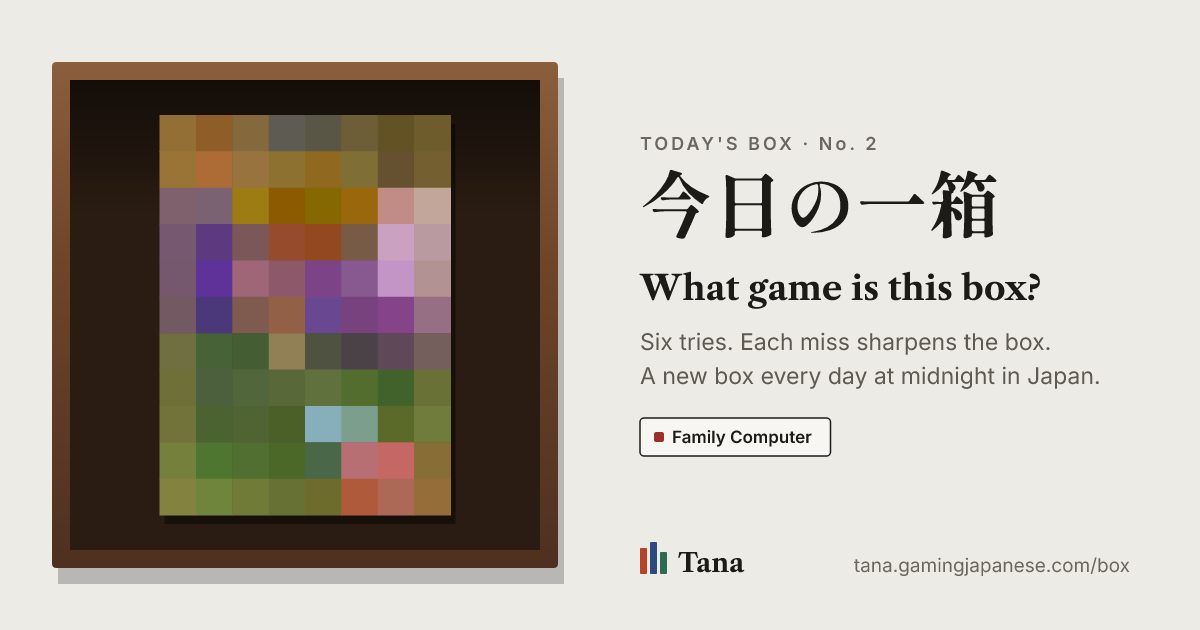
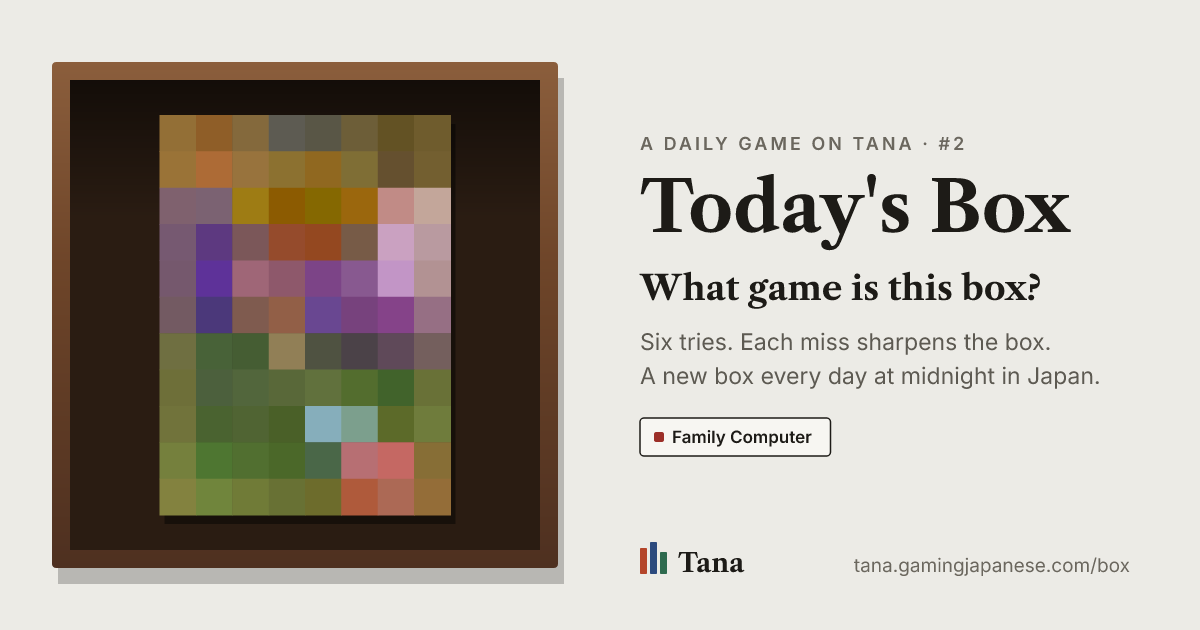
Rebuild game pages (2026-10-14)

Changed region(s): [[0.5242, 0.2714, 0.8942, 0.3921], [0.5242, 0.2111, 0.8017, 0.2413]]

diff --git a/help/index.html b/help/index.html
@@ -39,11 +39,11 @@
 <h3>3. Your collection</h3>
 <ul><li><a href="https://tana.gamingjapanese.com/help/adding-games/">3.1 Adding a game to your collection</a></li><li><a href="https://tana.gamingjapanese.com/help/shelf-and-list/">3.2 Shelf view and list view</a></li><li><a href="https://tana.gamingjapanese.com/help/editing-copies/">3.3 Editing and removing copies</a></li><li><a href="https://tana.gamingjapanese.com/help/importing/">3.4 Importing a collection</a></li><li><a href="https://tana.gamingjapanese.com/help/exporting/">3.5 Exporting your collection</a></li><li><a href="https://tana.gamingjapanese.com/help/insights/">3.6 Insights</a></li><li><a href="https://tana.gamingjapanese.com/help/value/">3.7 Value</a></li><li><a href="https://tana.gamingjapanese.com/help/smaller-shelves/">3.8 Smaller shelves</a></li></ul>
 <h3>4. Wants and lists</h3>
-<ul><li><a href="https://tana.gamingjapanese.com/help/wantlist/">4.1 Your wantlist</a></li><li><a href="https://tana.gamingjapanese.com/help/wants-matches/">4.2 Wants matches</a></li><li><a href="https://tana.gamingjapanese.com/help/boxes/">4.3 Boxes</a></li><li><a href="https://tana.gamingjapanese.com/help/my9/">4.4 My 9 · 私を構成する9本</a></li></ul>
+<ul><li><a href="https://tana.gamingjapanese.com/help/wantlist/">4.1 Your wantlist</a></li><li><a href="https://tana.gamingjapanese.com/help/wants-matches/">4.2 Wants matches</a></li><li><a href="https://tana.gamingjapanese.com/help/boxes/">4.3 Boxes</a></li><li><a href="https://tana.gamingjapanese.com/help/my9/">4.4 My 9</a></li></ul>
 <h3>5. Photos</h3>
 <ul><li><a href="https://tana.gamingjapanese.com/help/adding-photos/">5.1 Adding photos of your copies</a></li><li><a href="https://tana.gamingjapanese.com/help/photo-review/">5.2 How photos are reviewed</a></li><li><a href="https://tana.gamingjapanese.com/help/hide-photos/">5.3 Hiding photos on your public shelf</a></li></ul>
 <h3>6. Sharing and community</h3>
-<ul><li><a href="https://tana.gamingjapanese.com/help/public-shelf/">6.1 Your public shelf and privacy</a></li><li><a href="https://tana.gamingjapanese.com/help/sharing/">6.2 Sharing your shelf</a></li><li><a href="https://tana.gamingjapanese.com/help/following/">6.3 Following collectors</a></li><li><a href="https://tana.gamingjapanese.com/help/owners-and-wanters/">6.4 Who owns and wants each edition</a></li><li><a href="https://tana.gamingjapanese.com/help/leaderboard/">6.5 The leaderboard and verified games</a></li><li><a href="https://tana.gamingjapanese.com/help/contribution-orb/">6.6 The contribution orb</a></li><li><a href="https://tana.gamingjapanese.com/help/comments/">6.7 Comments and discussion</a></li><li><a href="https://tana.gamingjapanese.com/help/todays-box/">6.8 Today&#39;s Box · 今日の一箱</a></li></ul>
+<ul><li><a href="https://tana.gamingjapanese.com/help/public-shelf/">6.1 Your public shelf and privacy</a></li><li><a href="https://tana.gamingjapanese.com/help/sharing/">6.2 Sharing your shelf</a></li><li><a href="https://tana.gamingjapanese.com/help/following/">6.3 Following collectors</a></li><li><a href="https://tana.gamingjapanese.com/help/owners-and-wanters/">6.4 Who owns and wants each edition</a></li><li><a href="https://tana.gamingjapanese.com/help/leaderboard/">6.5 The leaderboard and verified games</a></li><li><a href="https://tana.gamingjapanese.com/help/contribution-orb/">6.6 The contribution orb</a></li><li><a href="https://tana.gamingjapanese.com/help/comments/">6.7 Comments and discussion</a></li><li><a href="https://tana.gamingjapanese.com/help/todays-box/">6.8 Today&#39;s Box</a></li></ul>
 <h3>7. Improving the catalogue</h3>
 <ul><li><a href="https://tana.gamingjapanese.com/help/corrections/">7.1 Suggesting a correction</a></li><li><a href="https://tana.gamingjapanese.com/help/adding-releases-editions/">7.2 Adding a release or an edition</a></li><li><a href="https://tana.gamingjapanese.com/help/regional-differences/">7.3 Documenting regional differences</a></li><li><a href="https://tana.gamingjapanese.com/help/review-process/">7.4 How contributions are reviewed</a></li></ul>
 <h3>8. About the data</h3>

diff --git a/help/whats-new/index.html b/help/whats-new/index.html
@@ -4,12 +4,12 @@
 <meta charset="utf-8">
 <meta name="viewport" content="width=device-width, initial-scale=1">
 <title>What&#39;s new · Tana help</title>
-<meta name="description" content="2026 10 13: Today&#39;s Box · 今日の一箱 A new daily game. Every day at midnight Japan time, one box opens for everyone as an 8 bit mosaic. Guess the game in six tr">
+<meta name="description" content="2026 10 14: Menus and headings in English Every menu, heading and label in Tana is now in English first. Today&#39;s Box, My 9, the stamp cards, platform names">
 <link rel="canonical" href="https://tana.gamingjapanese.com/help/whats-new/">
 <meta property="og:type" content="website">
 <meta property="og:site_name" content="Tana 棚">
 <meta property="og:title" content="What&#39;s new · Tana help">
-<meta property="og:description" content="2026 10 13: Today&#39;s Box · 今日の一箱 A new daily game. Every day at midnight Japan time, one box opens for everyone as an 8 bit mosaic. Guess the game in six tr">
+<meta property="og:description" content="2026 10 14: Menus and headings in English Every menu, heading and label in Tana is now in English first. Today&#39;s Box, My 9, the stamp cards, platform names">
 <meta property="og:url" content="https://tana.gamingjapanese.com/help/whats-new/">
 <meta property="og:image" content="https://tana.gamingjapanese.com/static/og.png">
 <meta property="og:image:width" content="1200">
@@ -31,7 +31,9 @@
 <article class="help">
 <p class="crumb"><a href="https://tana.gamingjapanese.com/help/">Help</a>, Appendices</p>
 <h1>What&#39;s new</h1>
-<h3>2026-10-13: Today&#39;s Box · 今日の一箱</h3>
+<h3>2026-10-14: Menus and headings in English</h3>
+<p>Every menu, heading and label in Tana is now in English first. Today&#39;s Box, My 9, the stamp cards, platform names and the share text all read in English, and where a Japanese name is worth knowing (My 9 is known in Japan as 私を構成する9本), it appears in small print underneath. Game titles still show their Japanese name for Japanese releases, as before, and the shelf mark 棚 stays in the logo.</p>
+<h3>2026-10-13: Today&#39;s Box</h3>
 <p>A new daily game. Every day at midnight Japan time, one box opens for everyone as an 8-bit mosaic. Guess the game in six tries, and each miss sharpens the box and adds a clue.</p>
 <p>Every day you finish earns a stamp on the month&#39;s stamp card. Stamp a whole month and its brass plate goes under your shelf. Share your result without spoiling the answer, and see how the people you follow did. No account needed to play: tana.gamingjapanese.com/box/. See Today&#39;s Box for how it works.</p>
 <h3>2026-10-13: Box art for PS3, Switch and newer consoles</h3>
@@ -40,7 +42,7 @@
 <h3>2026-10-12: Box art</h3>
 <p>Games now show their real box art: on game pages, next to every release, in search results, in My 9 and in the pictures you share. More than three quarters of all releases have it already, matched by product code where possible. Each box keeps a small JP, NA or EU patch for the region of the release, so it&#39;s clear which one you&#39;re looking at even when the art comes from another region.</p>
 <p>Games with no art yet show a plain label with the title. An approved photo of the front of your copy fills it in, and you can report wrong box art from the game page. See Box art for where it comes from.</p>
-<h3>2026-10-12: My 9 · 私を構成する9本</h3>
+<h3>2026-10-12: My 9</h3>
 <p>Make the grid of the nine games that made you, on a 3 by 3 cubby shelf. Pick the exact version you played, add your age or the year and a line about why, and put your keystone game in the middle. Each game shows its box art.</p>
 <p>Anyone can build one at tana.gamingjapanese.com/my9/ without an account. Saving, sharing a link and comparing with other people need a free account, and Tana keeps your grid while you sign up. The census shows what everyone is picking, Japan and North America side by side. See My 9 for how it all works.</p>
 <h3>2026-10-12: Wants and lists, with nine boxes</h3>

diff --git a/help/todays-box/index.html b/help/todays-box/index.html
@@ -3,12 +3,12 @@
 <head>
 <meta charset="utf-8">
 <meta name="viewport" content="width=device-width, initial-scale=1">
-<title>Today&#39;s Box · 今日の一箱 · Tana help</title>
+<title>Today&#39;s Box · Tana help</title>
 <meta name="description" content="Today&#39;s Box is a daily game: guess a game from its box. There&#39;s one box a day for everyone, and a new one opens at midnight Japan time. Play at tana.gaming">
 <link rel="canonical" href="https://tana.gamingjapanese.com/help/todays-box/">
 <meta property="og:type" content="website">
 <meta property="og:site_name" content="Tana 棚">
-<meta property="og:title" content="Today&#39;s Box · 今日の一箱 · Tana help">
+<meta property="og:title" content="Today&#39;s Box · Tana help">
 <meta property="og:description" content="Today&#39;s Box is a daily game: guess a game from its box. There&#39;s one box a day for everyone, and a new one opens at midnight Japan time. Play at tana.gaming">
 <meta property="og:url" content="https://tana.gamingjapanese.com/help/todays-box/">
 <meta property="og:image" content="https://tana.gamingjapanese.com/static/og.png">
@@ -30,19 +30,19 @@
 <main class="page">
 <article class="help">
 <p class="crumb"><a href="https://tana.gamingjapanese.com/help/">Help</a>, Sharing and community</p>
-<h1>Today&#39;s Box · 今日の一箱</h1>
+<h1>Today&#39;s Box</h1>
 <p>Today&#39;s Box is a daily game: guess a game from its box. There&#39;s one box a day for everyone, and a new one opens at midnight Japan time. Play at tana.gamingjapanese.com/box/, or tap Today&#39;s Box on the home page. You don&#39;t need an account to play.</p>
 <h3>Playing</h3>
 <p>The box starts as an 8-bit mosaic, 8 blocks across, too coarse to read any title. You also see the platform. Type a game and pick it from the list. Each wrong guess, or each tap of Skip and sharpen, makes the box sharper and adds a clue: the year, then the publisher, the genre and the first letter of its Western title. You have six tries. When you solve it, or use all six, you see the whole box, the game, and a line on how it came out in Japan and the West.</p>
 <p>Any version of the right game counts. If today&#39;s box is the Japanese Super Famicom release, picking the game by its English name is right too.</p>
 <h3>Stamps, streaks and plates</h3>
-<p>Each day you finish today&#39;s box earns a stamp on the month&#39;s stamp card, like a ラジオ体操 card. Days in a row make your streak. If you stamp every box in a month, that month&#39;s brass plate goes under your shelf for good, and visitors to your shelf see it too.</p>
+<p>Each day you finish today&#39;s box earns a stamp on the month&#39;s stamp card, like the stamp cards Japanese children collect for summer morning exercises. Days in a row make your streak. If you stamp every box in a month, that month&#39;s brass plate goes under your shelf for good, and visitors to your shelf see it too.</p>
 <p>Boxes from earlier days can still be played from their link, but they don&#39;t earn stamps or count toward your streak.</p>
 <h3>Without an account</h3>
 <p>You can play every day without an account. Your stamps and streak are kept on the device you play on. When you create a free account or sign in, today&#39;s and yesterday&#39;s results move into your account, and from then on your stamps, streak and plates follow you to any device.</p>
 <h3>Sharing</h3>
 <p>When you finish, you get a result to post, like this:</p>
-<ul><li>棚 今日の一箱 No.12  3/6</li><li>🟥🟥🟩⬛⬛⬛  🔥5</li></ul>
+<ul><li>Tana · Today&#39;s Box #12  3/6</li><li>🟥🟥🟩⬛⬛⬛  🔥5</li></ul>
 <p>It shows how many tries you needed and your streak, without giving the game away. Post on X opens a post with it ready, or tap Copy.</p>
 <p>If you follow other collectors, their results for the day show under yours, again without the answer.</p>
 <nav class="help-nav" aria-label="More help">

diff --git a/my9/index.html b/my9/index.html
@@ -3,12 +3,12 @@
 <head>
 <meta charset="utf-8">
 <meta name="viewport" content="width=device-width, initial-scale=1">
-<title>My 9 · 私を構成する9本 | Tana</title>
+<title>My 9: the nine games that made you | Tana</title>
 <meta name="description" content="The nine games that made you, on one shelf. Pick the exact version you played, when it got you and why, and get a picture ready to post. Free, no account needed.">
 <link rel="canonical" href="https://tana.gamingjapanese.com/my9/">
 <meta property="og:type" content="website">
 <meta property="og:site_name" content="Tana 棚">
-<meta property="og:title" content="My 9 · 私を構成する9本 | Tana">
+<meta property="og:title" content="My 9: the nine games that made you | Tana">
 <meta property="og:description" content="The nine games that made you, on one shelf. Pick the exact version you played, when it got you and why, and get a picture ready to post. Free, no account needed.">
 <meta property="og:url" content="https://tana.gamingjapanese.com/my9/">
 <meta property="og:image" content="https://tana.gamingjapanese.com/my9/card.png">
@@ -29,7 +29,7 @@
 </header>
 <main class="page">
 <script>location.replace('/#/my9' + location.search);</script>
-<section class="profile"><p class="crumb">New on Tana</p><h1>My 9 <span lang="ja">私を構成する9本</span></h1>
+<section class="profile"><p class="crumb">New on Tana</p><h1>My 9</h1>
 <p class="lede">The nine games that made you, on one shelf. Pick the exact version you played, when it got you and why, and get a picture ready to post. Free, no account needed.</p>
 <p class="actions"><a class="btn primary" href="https://tana.gamingjapanese.com/#/my9">Make your My 9</a> <a class="btn" href="https://tana.gamingjapanese.com/#/my9/census">See the census</a></p></section>
 </main>

diff --git a/help/my9/index.html b/help/my9/index.html
@@ -3,12 +3,12 @@
 <head>
 <meta charset="utf-8">
 <meta name="viewport" content="width=device-width, initial-scale=1">
-<title>My 9 · 私を構成する9本 · Tana help</title>
+<title>My 9 · Tana help</title>
 <meta name="description" content="My 9 is the &quot;9 games that made me&quot; grid 私を構成する9本 in Japanese done properly: nine games in a 3 by 3 cubby shelf, each one the exact version you played, with">
 <link rel="canonical" href="https://tana.gamingjapanese.com/help/my9/">
 <meta property="og:type" content="website">
 <meta property="og:site_name" content="Tana 棚">
-<meta property="og:title" content="My 9 · 私を構成する9本 · Tana help">
+<meta property="og:title" content="My 9 · Tana help">
 <meta property="og:description" content="My 9 is the &quot;9 games that made me&quot; grid 私を構成する9本 in Japanese done properly: nine games in a 3 by 3 cubby shelf, each one the exact version you played, with">
 <meta property="og:url" content="https://tana.gamingjapanese.com/help/my9/">
 <meta property="og:image" content="https://tana.gamingjapanese.com/static/og.png">
@@ -30,7 +30,7 @@
 <main class="page">
 <article class="help">
 <p class="crumb"><a href="https://tana.gamingjapanese.com/help/">Help</a>, Wants and lists</p>
-<h1>My 9 · 私を構成する9本</h1>
+<h1>My 9</h1>
 <p>My 9 is the &quot;9 games that made me&quot; grid (私を構成する9本 in Japanese) done properly: nine games in a 3 by 3 cubby shelf, each one the exact version you played, with when it got you and why. Anyone can make one without an account. You need an account to save it, share a link to it and compare it with other people&#39;s.</p>
 <p>Start at tana.gamingjapanese.com/my9/, or tap Make a My 9 on the home page.</p>
 <h3>Building your nine</h3>

diff --git a/box/index.html b/box/index.html
@@ -3,12 +3,12 @@
 <head>
 <meta charset="utf-8">
 <meta name="viewport" content="width=device-width, initial-scale=1">
-<title>今日の一箱 No. 2 · Today&#39;s Box | Tana</title>
+<title>Today&#39;s Box #2: what game is this box? | Tana</title>
 <meta name="description" content="Guess today&#39;s game from its box, revealed one 8-bit mosaic at a time. One box a day for everyone, free.">
 <link rel="canonical" href="https://tana.gamingjapanese.com/box/">
 <meta property="og:type" content="website">
 <meta property="og:site_name" content="Tana 棚">
-<meta property="og:title" content="今日の一箱 No. 2 · Today&#39;s Box | Tana">
+<meta property="og:title" content="Today&#39;s Box #2: what game is this box? | Tana">
 <meta property="og:description" content="Guess today&#39;s game from its box, revealed one 8-bit mosaic at a time. One box a day for everyone, free.">
 <meta property="og:url" content="https://tana.gamingjapanese.com/box/">
 <meta property="og:image" content="https://tana.gamingjapanese.com/box/card.png">
@@ -29,7 +29,7 @@
 </header>
 <main class="page">
 <script>location.replace('/#/box' + location.search);</script>
-<section class="profile"><p class="crumb">A daily game on Tana</p><h1><span lang="ja">今日の一箱</span> Today's Box</h1>
+<section class="profile"><p class="crumb">A daily game on Tana</p><h1>Today's Box</h1>
 <p class="lede">Guess today&#39;s game from its box, revealed one 8-bit mosaic at a time. One box a day for everyone, free.</p>
 <p class="actions"><a class="btn primary" href="https://tana.gamingjapanese.com/#/box">Play today's box</a></p></section>
 </main>

diff --git a/my9/nlkb/2/index.html b/my9/nlkb/2/index.html
@@ -30,7 +30,7 @@
 </header>
 <main class="page">
 <script>location.replace("https://tana.gamingjapanese.com/#/my9/u/nlkb/2");</script>
-<section class="profile"><p class="crumb">My 9 · <span lang="ja">私を構成する9本</span></p><h1>NLKB: The 9 games that made me</h1>
+<section class="profile"><p class="crumb">My 9</p><h1>NLKB: The 9 games that made me</h1>
 <ol><li>Kingdom Hearts II - Final Mix <span lang="ja">キングダムハーツIIFINAL MIX+</span></li><li>Animal Crossing <span lang="ja">どうぶつの森+</span></li><li>Super Smash Bros. Melee <span lang="ja">大乱闘スマッシュブラザーズDX</span></li><li>Pokémon - Emerald Version <span lang="ja">ポケットモンスター エメラルド</span></li><li>Legend of Zelda, The - Collector&#39;s Edition</li><li>Final Fantasy X <span lang="ja">ファイナルファンタジーX</span></li><li>Star Fox 64 <span lang="ja">スターフォックス64</span></li><li>Super Mario 64 DS <span lang="ja">スーパーマリオ64DS</span></li><li>Elder Scrolls V, The - Skyrim <span lang="ja">The Elder Scrolls V: Skyrim</span></li></ol>
 <p class="actions"><a class="btn primary" href="https://tana.gamingjapanese.com/#/my9/u/nlkb/2">Open it on Tana</a> <a class="btn" href="https://tana.gamingjapanese.com/#/my9">Make your own</a></p></section>
 </main>

diff --git a/help/adding-photos/index.html b/help/adding-photos/index.html
@@ -36,7 +36,7 @@
 <p>Every photo has to be your own, of a copy you actually own. You&#39;ll be asked to confirm that before uploading. Images from shops, auction or flea-market listings, other people&#39;s photos, flatbed scans, screenshots, magazine scans and promotional art aren&#39;t allowed.</p>
 <p>Photos are resized in your browser before uploading, and a thumbnail is made automatically. Each member can store up to 500 photos.</p>
 <nav class="help-nav" aria-label="More help">
-  <a class="help-prev" href="https://tana.gamingjapanese.com/help/my9/"><span>Previous</span>My 9 · 私を構成する9本</a>
+  <a class="help-prev" href="https://tana.gamingjapanese.com/help/my9/"><span>Previous</span>My 9</a>
   <a class="help-next" href="https://tana.gamingjapanese.com/help/photo-review/"><span>Next</span>How photos are reviewed</a>
 </nav>
 <p class="help-all"><a href="https://tana.gamingjapanese.com/help/">All help topics</a> · <a href="https://tana.gamingjapanese.com/">Open Tana</a></p>

diff --git a/help/corrections/index.html b/help/corrections/index.html
@@ -35,7 +35,7 @@
 <p>Pick what should change, enter the new value, and give a short reason. A source helps a lot, i.e. a scan of the box or a link.</p>
 <p>Corrections are sent for review. Once one is approved, it goes live and counts toward your contribution orb.</p>
 <nav class="help-nav" aria-label="More help">
-  <a class="help-prev" href="https://tana.gamingjapanese.com/help/todays-box/"><span>Previous</span>Today&#39;s Box · 今日の一箱</a>
+  <a class="help-prev" href="https://tana.gamingjapanese.com/help/todays-box/"><span>Previous</span>Today&#39;s Box</a>
   <a class="help-next" href="https://tana.gamingjapanese.com/help/adding-releases-editions/"><span>Next</span>Adding a release or an edition</a>
 </nav>
 <p class="help-all"><a href="https://tana.gamingjapanese.com/help/">All help topics</a> · <a href="https://tana.gamingjapanese.com/">Open Tana</a></p>

diff --git a/help/comments/index.html b/help/comments/index.html
@@ -36,7 +36,7 @@
 <p>For longer conversations, come say hi on our Discord (<a href="https://discord.gg/MXWmYAhxUs" rel="noopener">discord.gg/MXWmYAhxUs</a>) or on <a href="https://www.reddit.com/r/tanashelf/" rel="noopener">r/tanashelf</a>.</p>
 <nav class="help-nav" aria-label="More help">
   <a class="help-prev" href="https://tana.gamingjapanese.com/help/contribution-orb/"><span>Previous</span>The contribution orb</a>
-  <a class="help-next" href="https://tana.gamingjapanese.com/help/todays-box/"><span>Next</span>Today&#39;s Box · 今日の一箱</a>
+  <a class="help-next" href="https://tana.gamingjapanese.com/help/todays-box/"><span>Next</span>Today&#39;s Box</a>
 </nav>
 <p class="help-all"><a href="https://tana.gamingjapanese.com/help/">All help topics</a> · <a href="https://tana.gamingjapanese.com/">Open Tana</a></p>
 </article>

diff --git a/help/boxes/index.html b/help/boxes/index.html
@@ -49,7 +49,7 @@
 <p>If your collection is public, visitors see your wantlist and the boxes with games in them under the Wants &amp; lists tab on your profile. Empty boxes are hidden from visitors.</p>
 <nav class="help-nav" aria-label="More help">
   <a class="help-prev" href="https://tana.gamingjapanese.com/help/wants-matches/"><span>Previous</span>Wants matches</a>
-  <a class="help-next" href="https://tana.gamingjapanese.com/help/my9/"><span>Next</span>My 9 · 私を構成する9本</a>
+  <a class="help-next" href="https://tana.gamingjapanese.com/help/my9/"><span>Next</span>My 9</a>
 </nav>
 <p class="help-all"><a href="https://tana.gamingjapanese.com/help/">All help topics</a> · <a href="https://tana.gamingjapanese.com/">Open Tana</a></p>
 </article>
